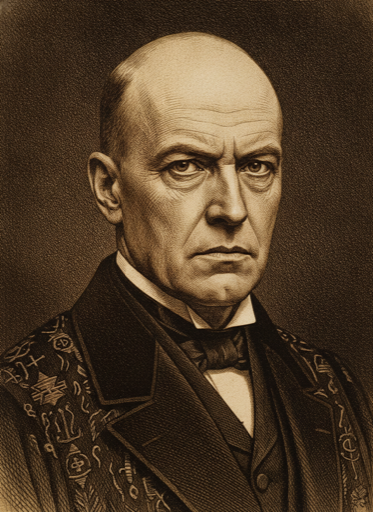
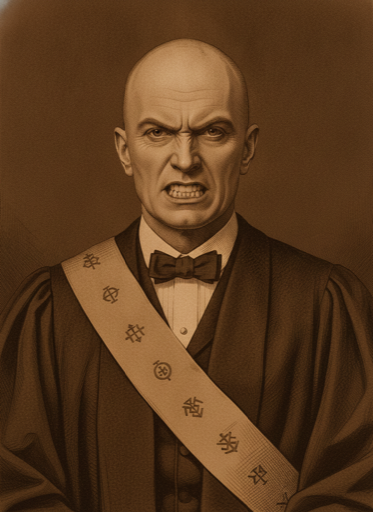
Fix reaction-portrait consistency drift found in #531 audit (#537)
Full-resolution audit of all 37 promoted reaction sets against each
member's own baseline (border, outfit, tone, crop — not just per-image
quality) found two failure patterns prior batches' review missed:
wholesale drift on Crowley/Waite/Blavatsky, and a narrower
border/crop/pose drift limited to several members' `thinking` image
(plus one tone-only drift on Böhme). Root cause: prior prompts anchored
likeness/attire/expression via the reference image but never said
anything about border, crop, or camera distance.

Regenerated and promoted 13 images with an explicit consistency
instruction layered onto the existing reference-anchored
expression-override prompt (scripts/fix-531-reaction-drift.js). Added
border/frame and camera-distance/crop rules to STYLE_GUIDE.md's
baseline register so future batches state this explicitly.

Teresa's baseline-vs-reactions style gap and the roster-wide
bordered-vs-borderless split are documented in STYLE_GUIDE.md as
deliberate follow-ups, not fixed here.

diff --git a/scripts/fix-531-reaction-drift.js b/scripts/fix-531-reaction-drift.js
@@ -1,0 +1,153 @@
+'use strict';
+
+// #531 — targeted regeneration for reaction portraits found, on a full
+// audit of all 37 reaction sets against their own baseline, to have drifted
+// in outfit, border/frame, background tone, or camera distance — not just
+// expression. Filed after Rachel caught Crowley's -thinking/-angry reading
+// as "a completely different person" live; the audit (see PR description)
+// found two more fully-drifted sets (Waite, Blavatsky) and a narrower
+// recurring pattern where a member's -thinking image alone drops the
+// reference's border and zooms to a tighter hand-to-chin crop the other
+// three reactions don't share (frieda-harris, dion-fortune, moina-mathers,
+// jung), plus one tone-only drift (bohme -thinking).
+//
+// This reuses src/portrait-generation.js's EXPRESSION_OVERRIDE_META and the
+// concrete physically-described REACTIONS wording batch 2/3 converged on,
+// but adds an explicit CONSISTENCY_SUFFIX the prior batches never needed to
+// state outright — match the reference's border treatment, crop distance,
+// and framing, not just its likeness/attire. That gap is exactly what let
+// these sets drift while each individual generation still "looked fine" in
+// isolation.
+//
+// Storage/naming: public/portraits/candidates/<id>-<reaction>.png, same as
+// every prior batch. Per STYLE_GUIDE.md's human-validation gate, this
+// script does NOT promote — it only writes candidates for review. Run
+// scripts/promote-portrait.js on whichever candidates Rachel approves.
+//
+// Usage: node scripts/fix-531-reaction-drift.js
+
+require('dotenv').config();
+const fs = require('fs');
+const path = require('path');
+const { generatePortraitImage } = require('../src/portrait-generation');
+
+const ROOT = path.join(__dirname, '..');
+const PORTRAITS_DIR = path.join(ROOT, 'public', 'portraits');
+const CANDIDATES_DIR = path.join(PORTRAITS_DIR, 'candidates');
+
+const EXPRESSION_OVERRIDE_META =
+  "This is a photo-editing task. The attached reference photo shows this person with a neutral, resting expression. Match the reference image's exact facial structure, likeness, skin tone, headwear, and attire — do not alter identity, age, or ethnicity. You must NOT reuse or approximate the reference photo's facial expression under any circumstances — that neutral expression is the one thing you must change. Use the reference ONLY to match likeness/attire/background, including eye color and darkness exactly as in the reference (do not lighten, recolor, or add any glow to the eyes). His or her expression in your output must be a completely different, strongly and unmistakably expressed emotion, described below. If your output's face looks close to the reference's expression, you have failed the task.";
+
+// New for #531 — the prior batches' prompts anchored likeness/attire/expression
+// but never said anything about border, crop, or camera distance, and multiple
+// members' sets drifted on exactly those axes despite passing per-image review.
+const CONSISTENCY_SUFFIX =
+  "Match the reference image's border treatment exactly: if the reference has a plain white or cream border framing the portrait, reproduce that same border style and thickness; if the reference is borderless (the image runs edge-to-edge with no frame), your output must be borderless too — do not add a border that is not in the reference, and do not drop one that is. Match the reference's exact camera distance and crop — same head-and-shoulders framing, same amount of shoulder/torso visible, same zoom level. Do not zoom in closer, do not change the pose or add hand gestures, props, or framing not present in the reference. Keep the exact same outfit, garment colors, and background color/tone as the reference — do not substitute a different tie, collar, or garment style.";
+
+const STYLE_SUFFIX =
+  "Visible linework and texture (engraving/ink-wash register), not photorealistic or cartoon/flat-vector. Limited warm sepia/candlelit palette, consistent across a set, matching the reference image's exact tone. Background matching the reference image's background exactly — flat and evenly lit, no vignette or gradient, matte and uniform edge to edge. Portrait-oriented, thumbnail resolution.";
+
+// Subject clauses copied verbatim from the batch that originally generated
+// each member's baseline (pilot / batch2 / batch3), so the regenerated
+// reaction reads as the same established portrait.
+const MEMBER_SUBJECTS = {
+  crowley:
+    "Warm, etching-adjacent portrait of Aleister Crowley, English ceremonial magician, Edwardian era — head-and-shoulders, shaved head, formal Edwardian dress or ceremonial magician's robe. Aim for a recognizable likeness consistent with surviving photographs.",
+  waite:
+    'Warm, etching-adjacent portrait of Arthur Edward Waite, English occult scholar, late-Victorian/Edwardian era — head-and-shoulders, formal dark suit and high collar, mustache, scholarly bearing. Aim for a recognizable likeness consistent with surviving photographs.',
+  blavatsky:
+    'Warm, etching-adjacent portrait of Helena Petrovna Blavatsky, Russian-born Theosophist, Victorian era — head-and-shoulders, imposing older woman, elaborate Victorian dress, piercing direct gaze, rings visible if hands are in frame. Aim for a recognizable likeness consistent with surviving photographs.',
+  'frieda-harris':
+    'Warm, etching-adjacent portrait of Lady Frieda Harris, English artist, 1930s–40s — head-and-shoulders, refined older Englishwoman, elegant period dress, poised confident bearing.',
+  'dion-fortune':
+    'Warm, etching-adjacent portrait of Dion Fortune (Violet Mary Firth), English occultist, early 20th century — head-and-shoulders, formal 1920s–30s dress.',
+  'moina-mathers':
+    'Warm, etching-adjacent portrait of Moina Mathers, Golden Dawn co-leader and artist, Edwardian era — head-and-shoulders, formal Edwardian dress or Golden Dawn ceremonial regalia.',
+  jung: 'Warm, etching-adjacent portrait of Carl Gustav Jung, Swiss psychiatrist, mid-20th century — head-and-shoulders, glasses, formal suit, pipe optional.',
+  bohme:
+    "Warm, etching-adjacent portrait of Jakob Böhme, German shoemaker and mystic, early 17th century — head-and-shoulders, plain burgher/tradesman's dress (not scholar's robes or clerical dress — he had no Latin and no theological training), a cobbler's awl or scrap of leatherwork visible at the frame's edge as a concrete trade marker. Surviving 17th-century engraved frontispiece portraits exist from posthumous editions of his work; use them as a loose likeness anchor while keeping the set's etching register, not a direct reproduction.",
+};
+
+const REACTIONS = {
+  happy:
+    'Expression: a broad, unmistakable open-mouthed smile, teeth showing, cheeks pushed up high, eyes crinkled almost shut with genuine delighted laughter — an exuberant, joyful face, the opposite of a neutral or reserved expression.',
+  thinking:
+    'Expression: strongly inward and distracted — eyes unfocused and cast far into the middle distance (not toward the viewer at all), one eyebrow raised or brow deeply furrowed, mouth slightly open or twisted to one side as if murmuring — an obviously distracted, not-present face, the opposite of direct engagement with the viewer.',
+  angry:
+    'Expression: a hard, aggressive scowl — eyebrows sharply lowered and pulled together into a deep vertical crease, eyes narrowed to slits in a hard glare, mouth pulled into a tight snarl or bared teeth, jaw thrust forward — an unmistakably hostile, confrontational face.',
+};
+
+// Member -> reactions confirmed drifted by the #531 full-resolution audit.
+const FIXES = {
+  crowley: ['thinking', 'angry'],
+  waite: ['happy', 'thinking', 'angry'],
+  blavatsky: ['happy', 'thinking', 'angry'],
+  'frieda-harris': ['thinking'],
+  'dion-fortune': ['thinking'],
+  'moina-mathers': ['thinking'],
+  jung: ['thinking'],
+  bohme: ['thinking'],
+};
+
+function buildPrompt(memberId, reaction) {
+  return `${EXPRESSION_OVERRIDE_META} ${MEMBER_SUBJECTS[memberId]} ${REACTIONS[reaction]} ${CONSISTENCY_SUFFIX} ${STYLE_SUFFIX}`;
+}
+
+async function main() {
+  const apiKey = process.env.GEMINI_API_KEY;
+  if (!apiKey) {
+    console.error('GEMINI_API_KEY not set — cannot generate real portrait candidates.');
+    process.exit(1);
+  }
+
+  fs.mkdirSync(CANDIDATES_DIR, { recursive: true });
+
+  const results = [];
+  for (const [memberId, reactions] of Object.entries(FIXES)) {
+    const baselinePath = path.join(PORTRAITS_DIR, `${memberId}.png`);
+    if (!fs.existsSync(baselinePath)) {
+      console.log(`SKIPPING ${memberId} — no baseline portrait found at public/portraits/${memberId}.png`);
+      results.push({ id: memberId, ok: false, error: 'no baseline portrait' });
+      continue;
+    }
+    const referenceImages = [{ mimeType: 'image/png', data: fs.readFileSync(baselinePath) }];
+
+    for (const reaction of reactions) {
+      const id = `${memberId}-${reaction}`;
+      const prompt = buildPrompt(memberId, reaction);
+      process.stdout.write(`Generating ${id}... `);
+      try {
+        const start = Date.now();
+        const imageBuffer = await generatePortraitImage({ apiKey, prompt, referenceImages });
+        const outPath = path.join(CANDIDATES_DIR, `${id}.png`);
+        fs.writeFileSync(outPath, imageBuffer);
+        const ms = Date.now() - start;
+        console.log(`done (${imageBuffer.length} bytes, ${ms}ms) -> public/portraits/candidates/${id}.png`);
+        results.push({ id, ok: true });
+      } catch (err) {
+        console.log(`FAILED: ${err.message}`);
+        results.push({ id, ok: false, error: err.message });
+      }
+    }
+  }
+
+  console.log('\n=== SUMMARY ===');
+  const okCount = results.filter(r => r.ok).length;
+  console.log(`${okCount}/${results.length} candidates generated.`);
+  for (const r of results.filter(r => !r.ok)) {
+    console.log(`  FAILED: ${r.id} — ${r.error}`);
+  }
+  console.log(
+    '\nNext: review each candidate in public/portraits/candidates/ against the baseline portrait and STYLE_GUIDE.md, then promote the good ones with:\n' +
+      Object.entries(FIXES)
+        .flatMap(([m, reactions]) => reactions.map(r => `  node scripts/promote-portrait.js ${m}-${r}`))
+        .join('\n')
+  );
+
+  process.exit(results.every(r => r.ok) ? 0 : 1);
+}
+
+main().catch(err => {
+  console.error('Script error:', err);
+  process.exit(1);
+});

diff --git a/public/portraits/STYLE_GUIDE.md b/public/portraits/STYLE_GUIDE.md
@@ -12,6 +12,8 @@ AI-generated, proof-of-concept register for this stage of the project. Not commi
 - **Palette:** limited, warm-toned (sepia/candlelit register), consistent across the set — no member should read as lit or colored differently from the rest of the roster.
 - **Composition:** head-and-shoulders, period-appropriate dress, plain/dark background (no scene elements — scene context is the 3D salon's job, not the portrait's, per #26/#28).
 - **Line quality:** visible linework/texture (etching, engraving, ink-wash adjacent) rather than smooth airbrushed rendering.
+- **Border/frame:** match whatever the member's own baseline established — a plain white/cream border, or fully borderless (image runs edge-to-edge) — consistently across the baseline and all three reactions. This guide doesn't mandate one or the other roster-wide; the existing set is split roughly evenly between bordered and borderless members. The requirement is internal consistency per member, not a specific choice (added after [#531](https://github.com/msdixon/secret-cabinet/issues/531) found several members' reaction sets silently drifting border treatment against their own baseline).
+- **Camera distance/crop:** same head-and-shoulders framing and zoom level as the member's baseline across all three reactions — a reaction should never crop tighter/looser, or introduce a pose/hand gesture the baseline doesn't have (added after [#531](https://github.com/msdixon/secret-cabinet/issues/531), same finding as above).
 
 ## Known-vs-unknown likeness
 
@@ -31,6 +33,7 @@ AI-generated, proof-of-concept register for this stage of the project. Not commi
 
 ## Changelog
 
+- 2026-09-02 — [#531](https://github.com/msdixon/secret-cabinet/issues/531): full-resolution audit of all 37 promoted reaction sets (Bamba excluded, routed to the generic silhouette) against each member's own baseline — not just per-image quality — surfaced two failure patterns the prior batches' review process didn't catch: three members' sets had drifted wholesale (Crowley `thinking`/`angry`, Waite's full set, Blavatsky's full set), reading as a different outfit, tone, or even a different person; and a narrower pattern where a member's `thinking` image alone dropped the baseline's border and tightened to a hand-to-chin crop the member's other three images don't share (Frieda Harris, Dion Fortune, Moina Mathers, Jung), plus one tone-only drift (Böhme `thinking`, warmer/golden vs. the set's cooler sepia). Root cause: every prior batch's prompt anchored likeness/attire/expression via the reference image but never said anything about border, crop, or camera distance, so a set could drift on exactly those axes while each image still "looked fine" reviewed in isolation. Fixed by adding an explicit consistency instruction (`scripts/fix-531-reaction-drift.js`) covering border/frame treatment, camera distance/crop, pose, and outfit/background match, layered onto the existing reference-anchored expression-override prompt; regenerated and promoted 13 images, each confirmed against its baseline via full-resolution side-by-side comparison (the thumbnail-grid method used in earlier batches wasn't reliable enough to have caught this in the first place). Added the border/frame and camera-distance/crop rules above to the baseline register so future batches state this explicitly instead of relying on the reference image alone. Two known gaps deliberately left out of this pass: Teresa of Ávila's baseline reads in a different sub-register (closed-eyes, borderless, near-black background, painterly) than her three reactions (open-eyes, bordered, warm background, graphic linework) — the reactions agree with each other but not with the baseline; lower priority and higher-risk to fix here, since a fix would mean regenerating a canonical baseline used elsewhere in the app, not just the reactions — filed as [#538](https://github.com/msdixon/secret-cabinet/issues/538). And the roster-wide bordered-vs-borderless split itself (each member passes the new per-member rule above; the split is between members, not within one) is left as-is rather than picked one way retroactively.
 - 2026-09-02 — [#483](https://github.com/msdixon/secret-cabinet/issues/483): the `angry` reaction now has two text registers in `src/portrait-generation.js` instead of one fixed description applied to everyone — the existing bared-teeth/snarl text (`ANGRY_EXPRESSION_SNARL`, unchanged, still the default) plus a new controlled, closed-mouth, cold-glare alternative (`ANGRY_EXPRESSION_ICY`) for reserved/cerebral figures the snarl doesn't suit. `buildReactionPrompt(reaction, memberId)` picks between them via a curated `ANGRY_VARIANT_BY_MEMBER` lookup table, seeded with just the one member Rachel named explicitly (Adorno → icy) — not an audit of the wider roster; extending the table for anyone else is a human-review judgment call for whoever generates that member's next `angry` candidate (a future batch/fixup script, same tiering pattern as [#450](https://github.com/msdixon/secret-cabinet/issues/450) batch 3's `THINKING_FIXUPS`), not something inferred automatically here. `src/routes/member.js`'s automated new-member path now passes the new member's id through so the table applies there too, though in practice a brand-new member won't be in it. Per the issue's own scoping: this changes the prompt logic for *future* angry-candidate generation only — no already-reviewed/promoted member's reaction set was regenerated.
 - 2026-08-31 — [#474](https://github.com/msdixon/secret-cabinet/issues/474): one generic, non-likeness image generated against this guide's baseline register — `public/portraits/generic-silhouette.png`, a hooded figure with no identifiable facial features, plain dark background, same warm sepia/etching tone as the rest of the roster (`scripts/generate-generic-silhouette.js`). Not a member portrait: no roster entry, not tied to any `<id>`. Used by `applyReactionTexture`/`getPortraitTexture` (`public/js/scene/scene.js`) in three fallback cases: a member with no baseline portrait at all (previously hid the seat entirely — now shows this instead, keeping the seat visibly occupied), a member's reaction pair that 404s (unchanged: still falls back to the member's own baseline portrait, since a real likeness reads better than a generic one when we have it), and Amadou Bamba's reaction set specifically, which is now routed straight to this image without ever requesting `bamba-<reaction>.png` — his reaction set was deliberately held back at generation time (see the 2026-08-29 entry below) rather than personified, and his baseline `bamba.png` is unaffected. Live-verified in the running room: an unseated/unknown member id now shows the silhouette instead of vanishing, and setting Bamba's reaction shows the silhouette while his baseline (`reaction: 'none'`) still shows his real portrait, with no network request for `bamba-happy.png` ever made. **Revised same day, before merge:** the first-pass image described the hood's interior as "soft shadow" — gemini-2.5-flash-image rendered that as a dimensionally-shaded, faintly-featured face in darkness rather than an absence of one, which read as unsettling/uncanny rather than deliberately unspecified (Rachel: "sppoky... can we just make the head a blackened out shadow rather than something indicating a face is in it?"). Fixed by rewriting the prompt to describe a completely flat, solid black void with explicitly no shading/gradient/implied facial structure and no linework inside it, distinct from the textured hood/robe around it — regenerated once, confirmed on review to no longer read as a face-in-shadow, and promoted over the original.
 - 2026-08-30 — [#479](https://github.com/msdixon/secret-cabinet/issues/479) follow-up: expanded the single Dorian Gray decor image into 8 variants (`public/portraits/decor/dorian-gray-01.png`..`-08.png`) tracing the novel's central conceit — the same face aging and corrupting from unmarked youth (01) to ruinous decay (08) — generated with `-01` as a reference image to hold identity/attire/background constant across the set (same reference-anchoring approach as the #450 reaction portraits below). One is now picked at random client-side each time the 3D scene builds (`public/js/scene/scene.js`), not persisted or tied to any room state. Still non-roster decor, same as the original entry below.

diff --git a/docs/status/fragments/531-reaction-drift-fix.md b/docs/status/fragments/531-reaction-drift-fix.md
@@ -1,0 +1,1 @@
+[#531](https://github.com/msdixon/secret-cabinet/issues/531): audited all 37 promoted reaction sets against each member's own baseline (border, outfit, tone, crop — not just per-image quality) and regenerated 13 drifted images across 8 members (Crowley, Waite, Blavatsky full or partial sets; Frieda Harris, Dion Fortune, Moina Mathers, Jung, Böhme `thinking`-only). Added explicit border/frame and camera-distance/crop rules to `STYLE_GUIDE.md`'s baseline register so future batches state this instead of relying on the reference image alone. Teresa's baseline-vs-reactions style gap and the roster-wide bordered-vs-borderless split are documented as deliberate follow-ups, not fixed here.
